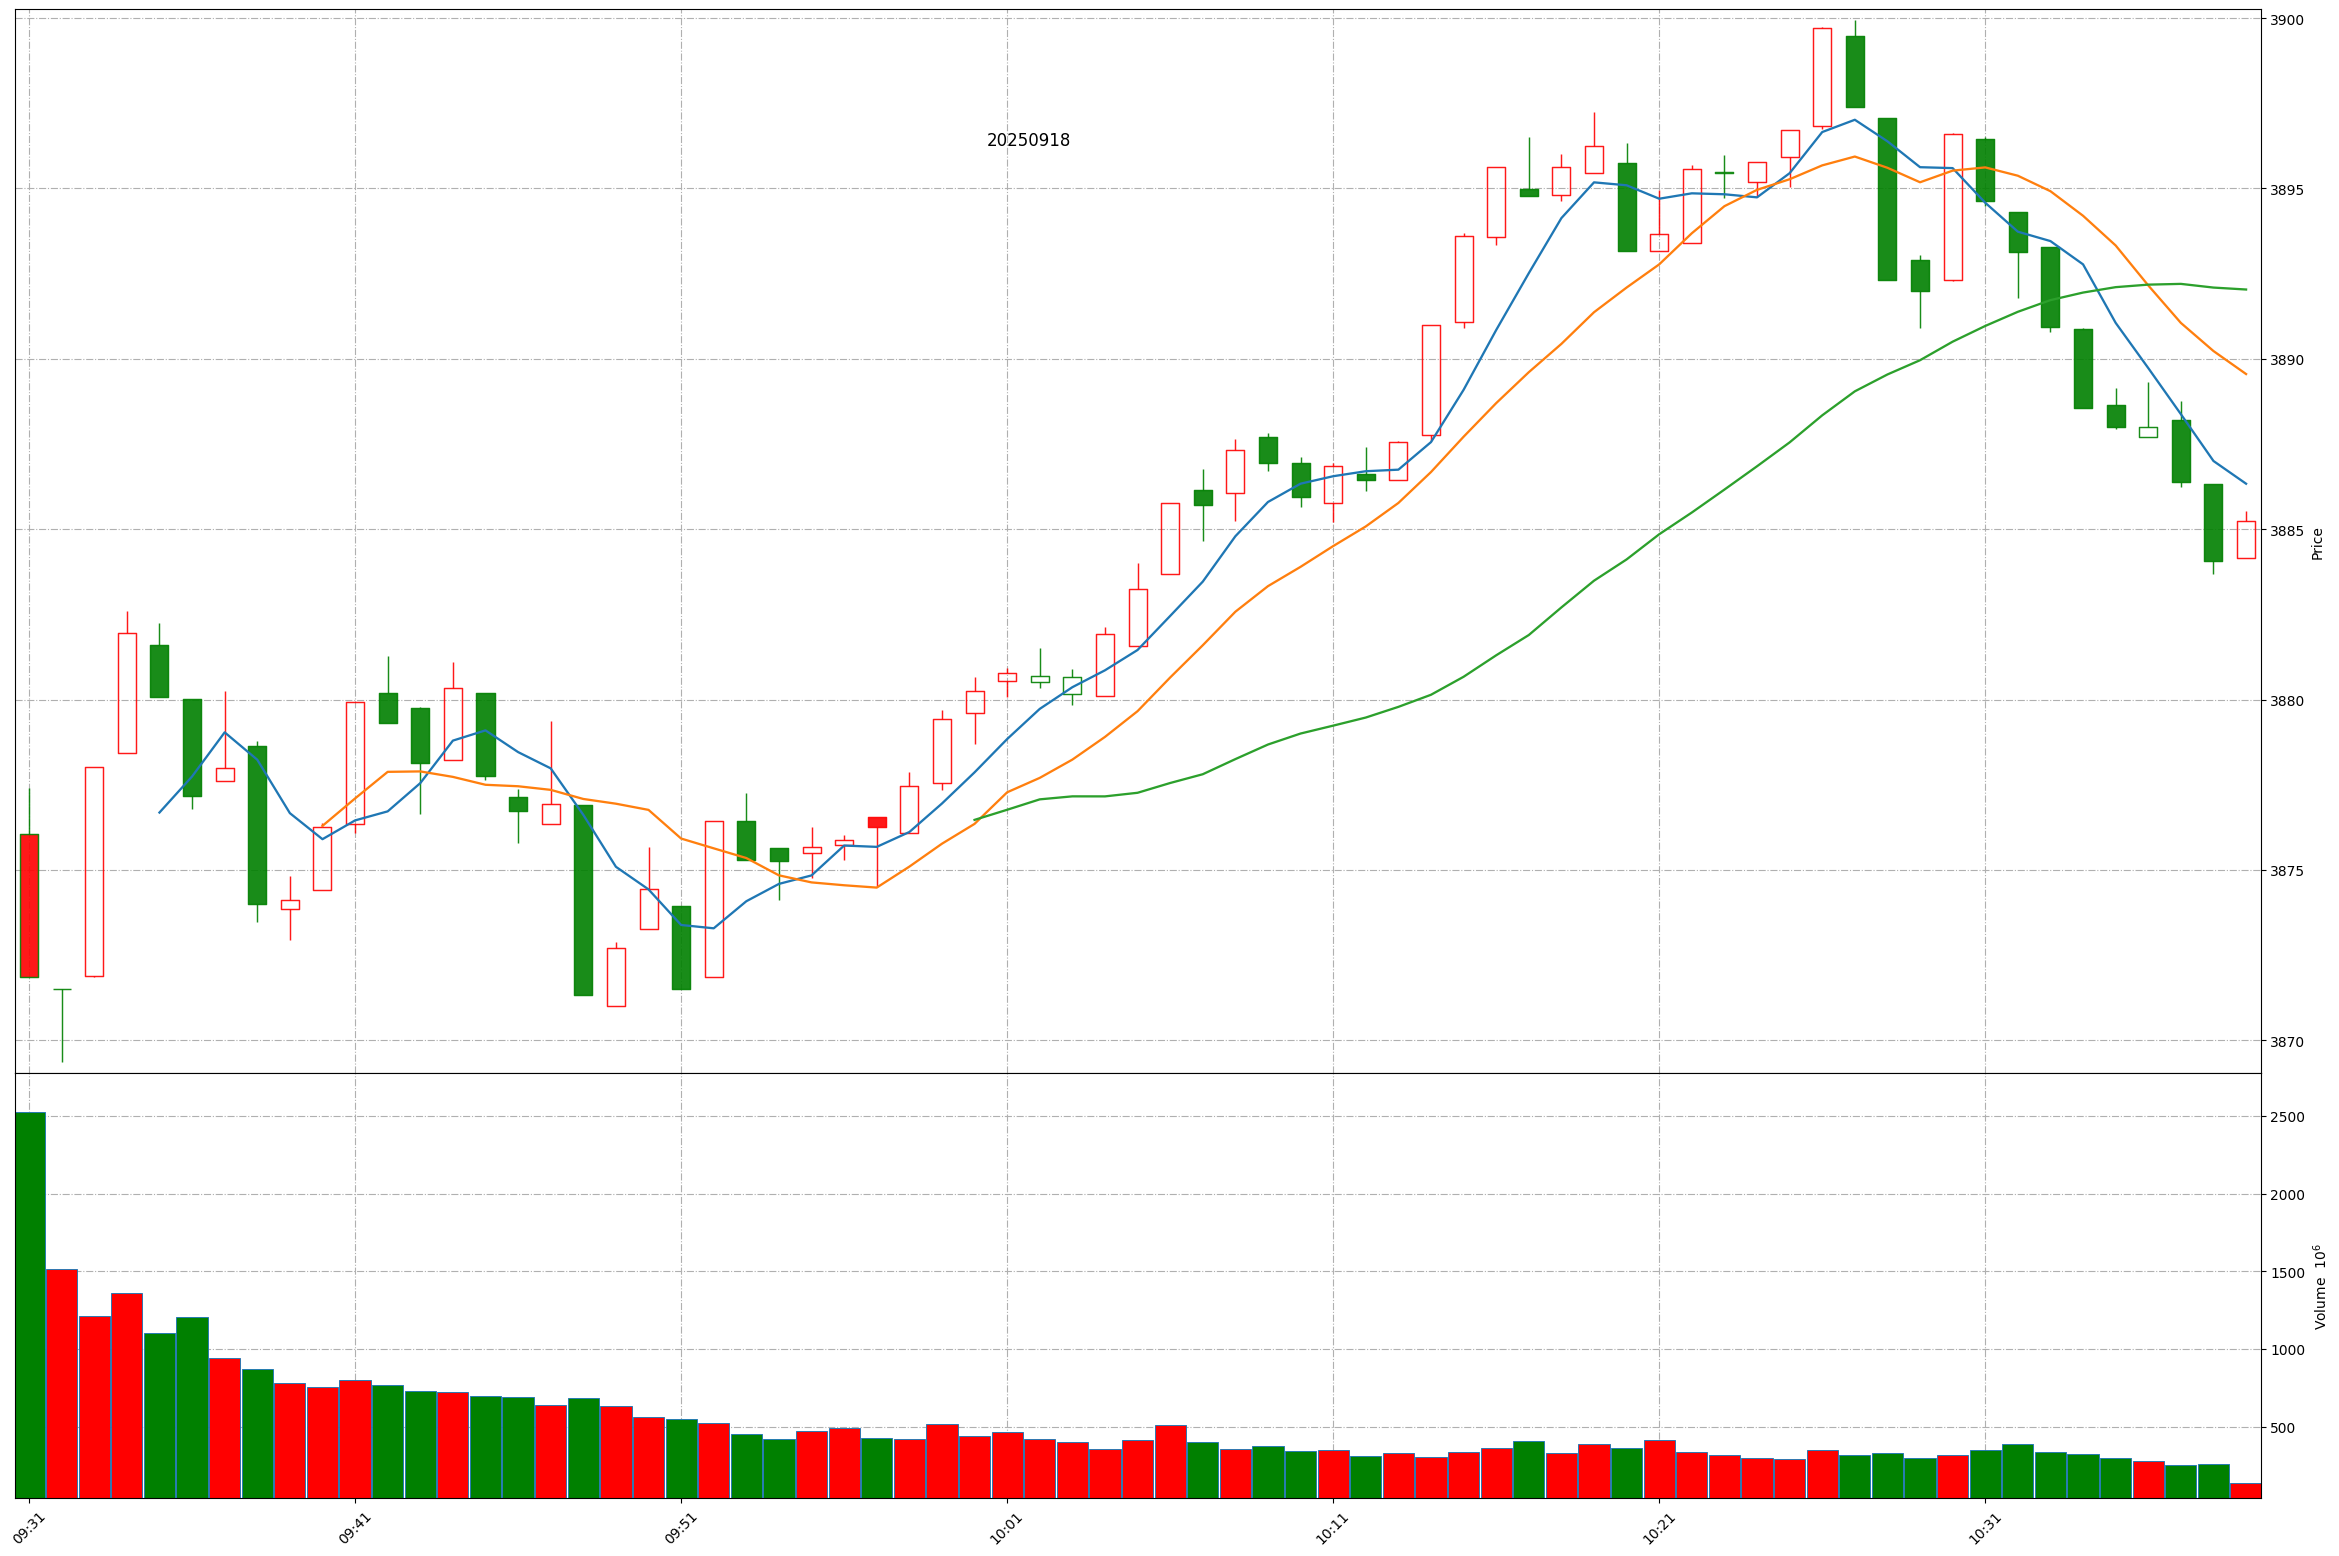
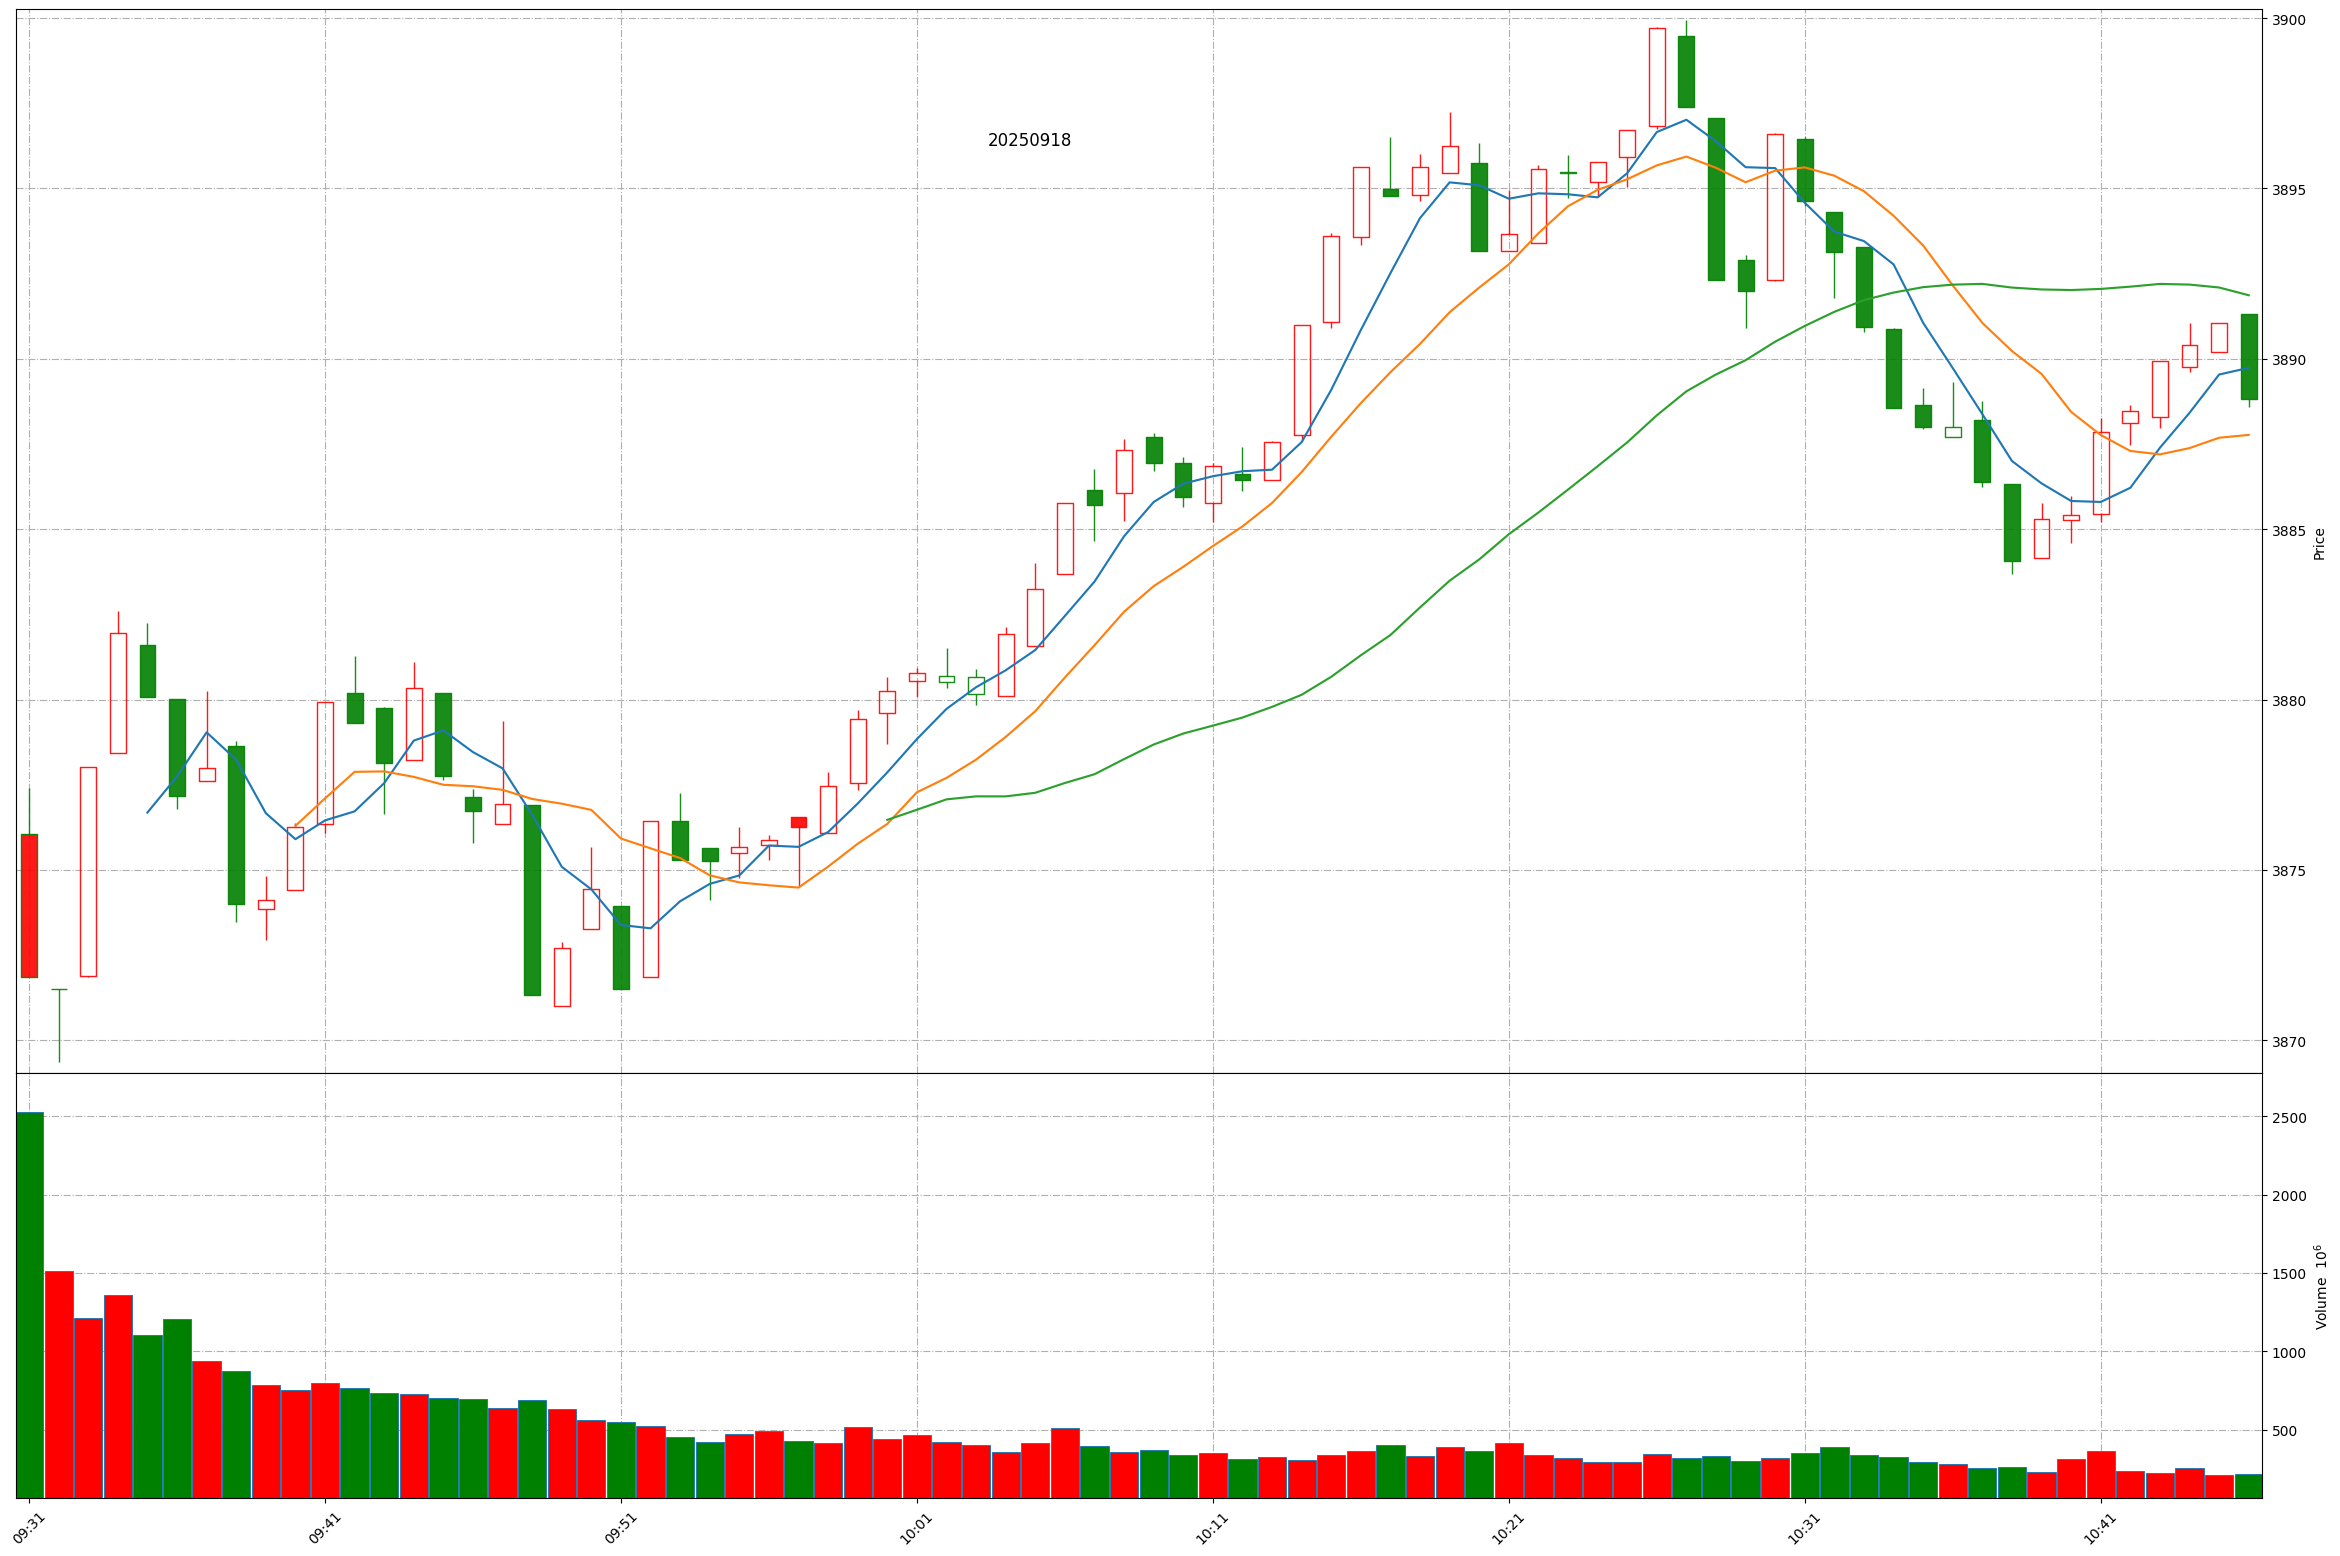
Github action update at 2025-09-18 10:46:05.

Changed region(s): [[0.0, 0.0, 0.9675, 0.6787], [0.0312, 0.8329, 0.9675, 0.9871]]

diff --git a/README.md b/README.md
@@ -1,11 +1,11 @@
 
 # Daily-A-share-market-quotes 每日 A 股指数（5min 更新）- 20250918
 
-### 上证指数 20250918 10:38
+### 上证指数 20250918 10:46
 ![](./fig/2025/9/20250918-sh000001.png)
 
-### 深证成指 20250918 10:38
+### 深证成指 20250918 10:46
 ![](./fig/2025/9/20250918-sz399001.png)
 
-### 北证50 20250918 10:38
+### 北证50 20250918 10:46
 ![](./fig/2025/9/20250918-bj899050.png)
